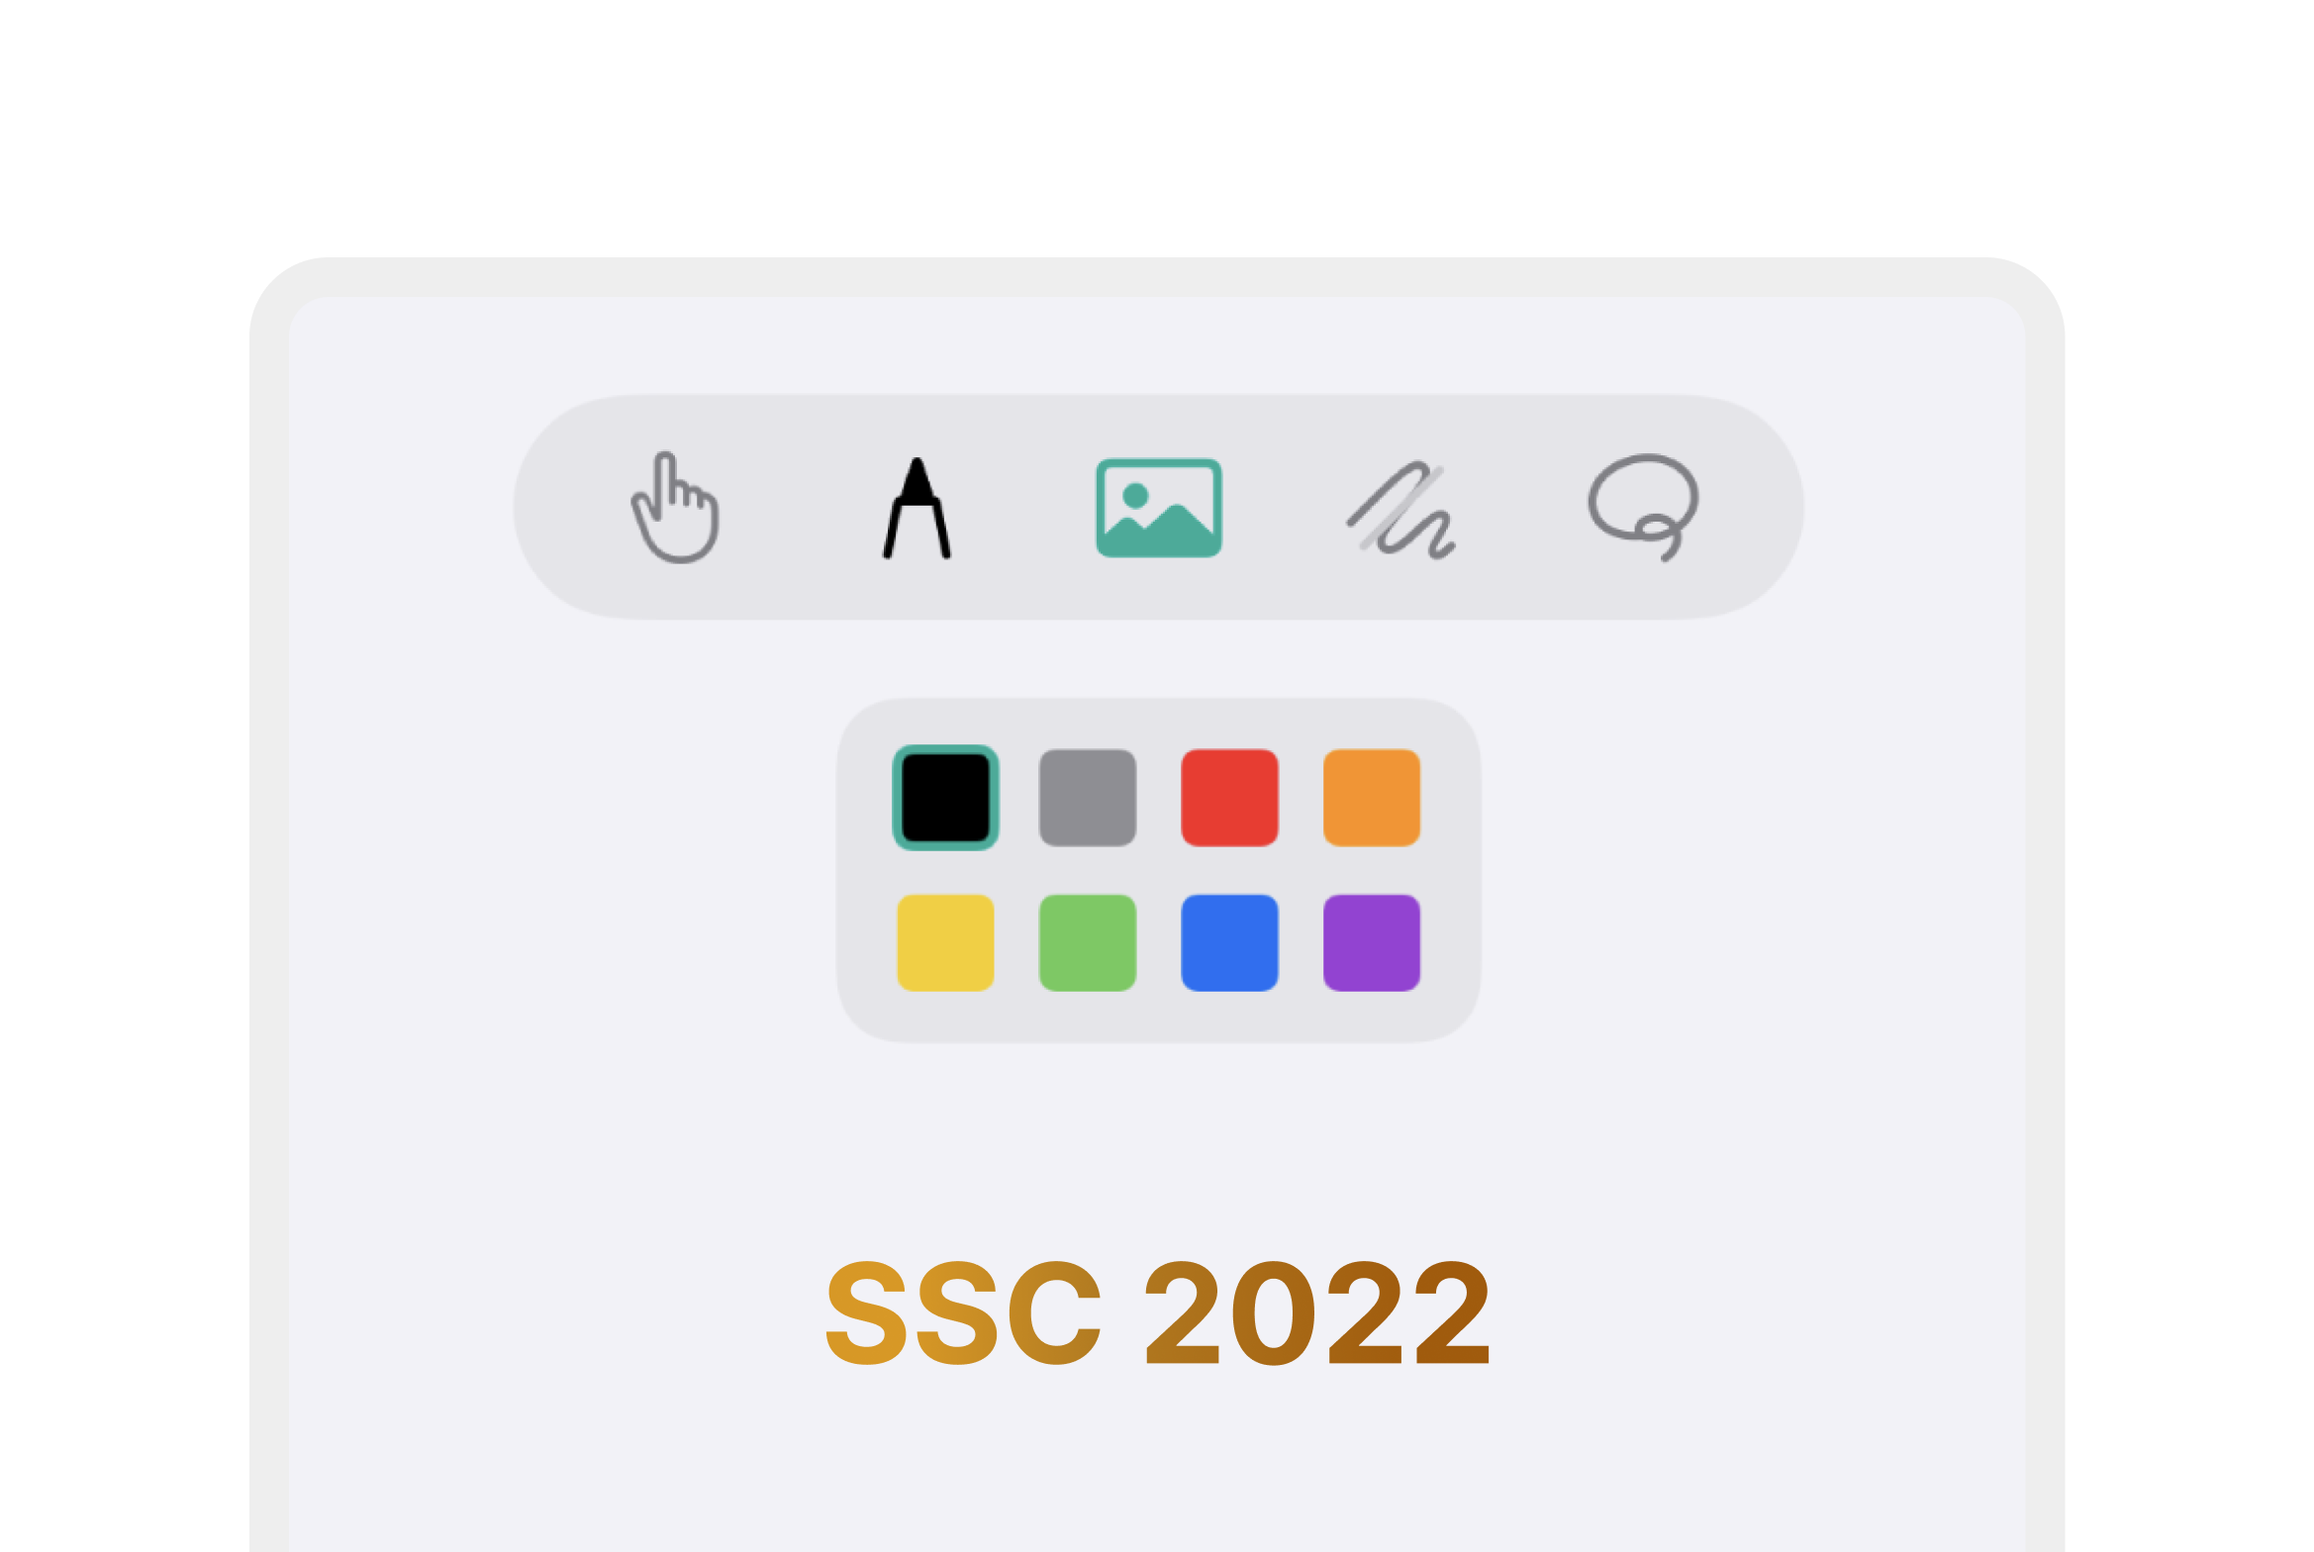
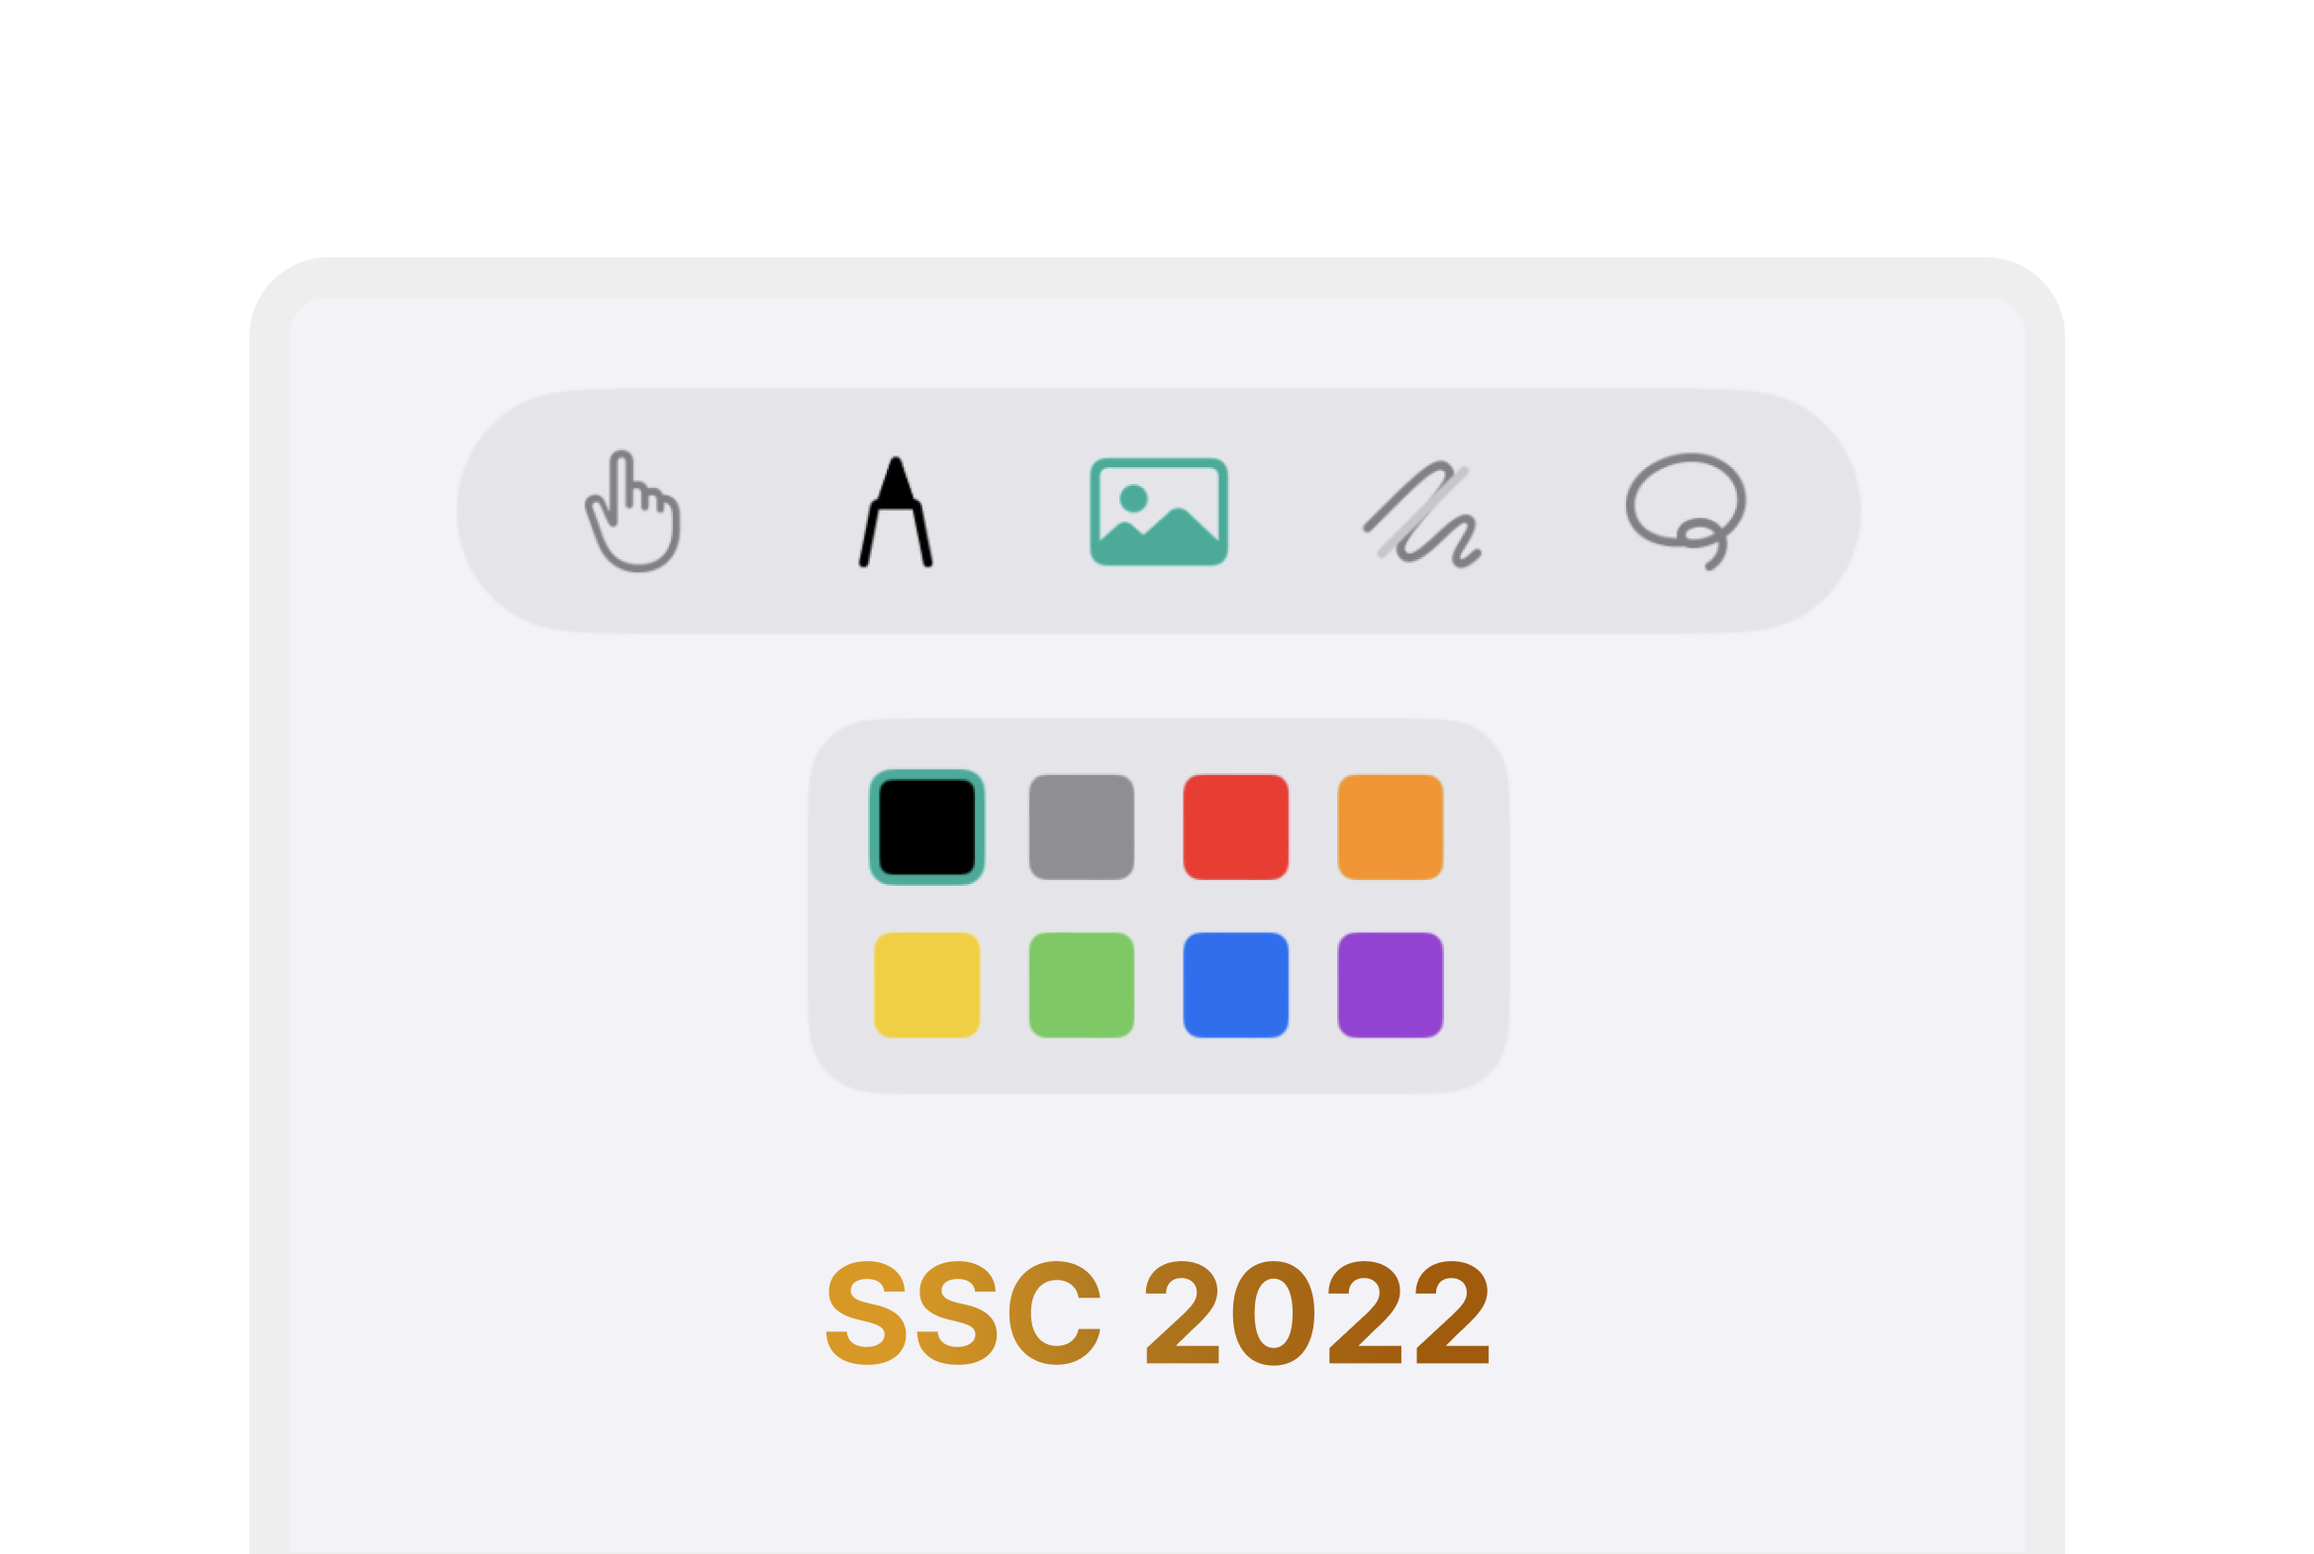
wip

diff --git a/pages/index.tsx b/pages/index.tsx
@@ -7,13 +7,14 @@ import SocialList from '../components/socials-list/socials-list'
 import whiteboard from '../images/whiteboard-portrait.png'
 import ferryBuilding from '../images/ferry-building.jpg'
 import photoDraw from '../images/photo-draw.png'
+import photoDrawDark from '../images/photo-draw-dark.png'
 import ipad from '../images/iPad Pro 12.9 - Space Gray - Portrait.png'
 import MultiFistHero from '../components/multi-fist/multi-fist'
 
 const Home: NextPage = () => (
   <div id="home-page">
     <div className="flex flex-col h-screen md:flex-row">
-      <div className="flex-none md:w-[20em] md:max-h-screen overflow-y-auto no-scrollbar">
+      <div className="flex-none md:w-[22em] md:pl-4 md:max-h-screen overflow-y-auto no-scrollbar">
         {/* <div className="flex justify-between space-x-3 pt-0 pb-5 sm:pt-10 sm:pb-10">
         <h5 className="bold-color m-0 whitespace-nowrap">Vincent Spitale</h5>
       </div> */}
@@ -29,7 +30,7 @@ const Home: NextPage = () => (
               />
             </div>
           </div>
-          <div className="prose">
+          <div className="prose md:text-base">
             <p className="pt-10">
               Hi, I'm Vincent &ensp;{' '}
               <a
@@ -78,7 +79,7 @@ const Home: NextPage = () => (
         </div>
       </div>
       <div className="md:max-h-screen md:overflow-y-auto no-scrollbar">
-        <div className="p-4 space-y-4 gap-4 columns-1 lg:columns-2 2xl:columns-3">
+        <div className="p-4 space-y-4 gap-4 columns-1 xl:columns-2 2xl:columns-3">
           <div className="space-y-4 inline-block">
             <Image
               className="rounded-lg"
@@ -151,13 +152,16 @@ const Home: NextPage = () => (
               rel="noopener noreferrer"
             >
               <div className="bg-card-gray dark:bg-card-gray-d rounded-lg">
-                <Image
-                  className=""
-                  src={photoDraw}
-                  alt="Swift Student Challenge 2022. Drawing Tool Picker."
-                  priority
-                  quality={80}
-                />
+                <picture>
+                  <source
+                    srcSet={photoDrawDark.src}
+                    media="(prefers-color-scheme: dark)"
+                  />
+                  <img
+                    src={photoDraw.src}
+                    alt="Swift Student Challenge 2022. Drawing Tool Picker."
+                  />
+                </picture>
               </div>
             </a>
           </div>

diff --git a/styles/globals.css b/styles/globals.css
@@ -327,6 +327,8 @@ content: none !important;
   }
 }
 
+/* MULTI */
+
 .multi-gender {
   fill: var(--hero-gender);
 }
@@ -341,7 +343,7 @@ content: none !important;
 
 .multi-fist-color {
   fill: #bd7a4e;
-  animation: multi-fist 5s infinite;
+  animation: multi-fist 10s infinite;
 }
 
 iframe {
@@ -365,20 +367,6 @@ iframe {
   100% {
     fill: #c48f6c;
   }
-}
-
-.link {
-  padding: 15px 30px;
-  margin: 10px;
-  display: inline-block;
-  color: #000;
-  background: #ffce54;
-  text-decoration: none;
-}
-
-.link:hover {
-  text-decoration: none;
-  color: #000;
 }
 
 /*===================*/
